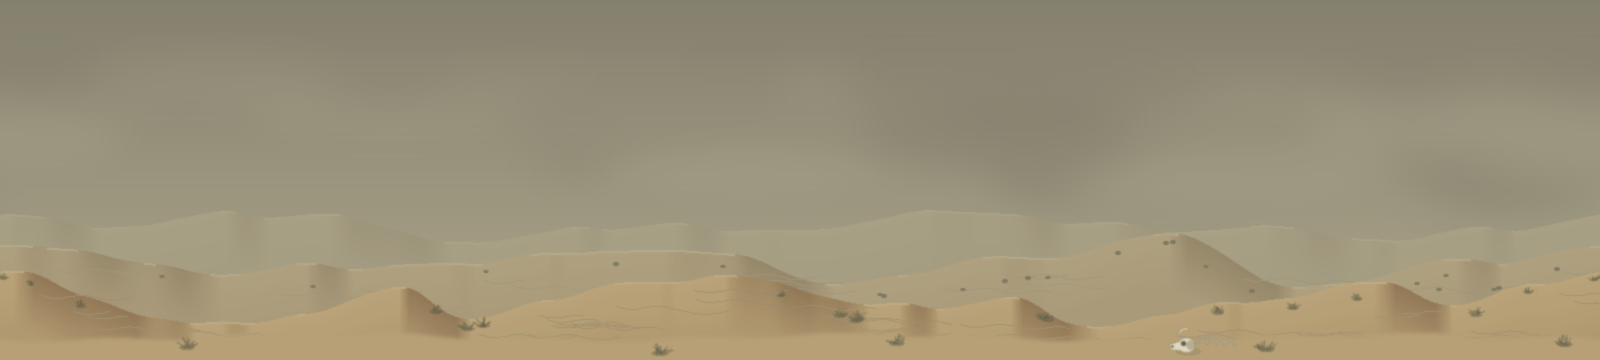
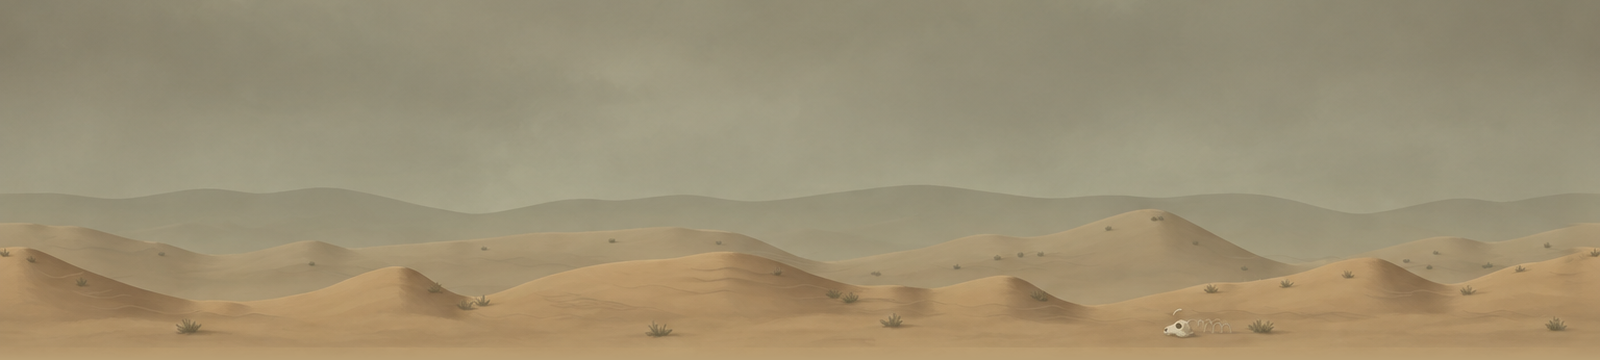
feat: ai desert

diff --git a/src/config/sceneryThemes.js b/src/config/sceneryThemes.js
@@ -26,10 +26,10 @@ export const SCENERY_THEMES = {
     tint: 0xd0d0d0, // darkens the too-light AI day art; tune here
   },
   desert: {
-    // hazy overcast dunes over a sand-drifted highway, both procedural (tools/gen-desert-assets.py)
+    // AI hazy-dune backdrop drawn from the procedural layout (tools/gen-desert-assets.py), procedural road
     road: { key: 'road-desert', file: 'assets/bg/road-desert.png' },
     scenery: { key: 'scenery-desert', file: 'assets/bg/scenery-desert.png' },
-    sky: 0x84806d,
+    sky: 0x8f8973,
     ground: 0x7d6f5d,
   },
 };

diff --git a/tests/tools/test_desert_assets.py b/tests/tools/test_desert_assets.py
@@ -103,11 +103,9 @@ class DesertSceneryTest(unittest.TestCase):
     def test_horizon_meets_road_top_row(self):
         self.assertEqual(mod.row_avg(self.img, BG_H - 1), mod.row_avg(self.road, 0))
 
-    def test_theme_hexes_match_edge_rows(self):
-        for got, want in ((mod.row_avg(self.img, 0), theme_hex('sky')),
-                          (mod.row_avg(self.road, ROAD_H - 1), theme_hex('ground'))):
-            for a, b in zip(got, want):
-                self.assertLessEqual(abs(a - b), 2)
+    def test_road_bottom_row_matches_theme_ground(self):
+        for a, b in zip(mod.row_avg(self.road, ROAD_H - 1), theme_hex('ground')):
+            self.assertLessEqual(abs(a - b), 2)
 
     def test_overcast_sky_plain_at_the_top(self):
         # clouds fade out before the top rows, so the sky fill above the strip has no seam
@@ -120,10 +118,32 @@ class DesertSceneryTest(unittest.TestCase):
         r, g, b = mod.row_avg(self.img, BG_H - 20)
         self.assertGreater(r, b + 25)
 
-    def test_shipped_files_match_generator(self):
-        for name, im in (('scenery-desert.png', self.img), ('road-desert.png', self.road)):
-            shipped = Image.open(os.path.join(mod.OUT, name)).convert('RGB')
-            self.assertEqual(shipped.tobytes(), im.tobytes(), name)
+    def test_shipped_road_matches_generator(self):
+        shipped = Image.open(os.path.join(mod.OUT, 'road-desert.png')).convert('RGB')
+        self.assertEqual(shipped.tobytes(), self.road.tobytes())
+
+
+class ShippedDesertSceneryTest(unittest.TestCase):
+    """The shipped scenery is the prepped AI image, not make_bg()'s drawing."""
+
+    @classmethod
+    def setUpClass(cls):
+        cls.img = Image.open(os.path.join(mod.OUT, 'scenery-desert.png')).convert('RGB')
+        cls.road = mod.make_road()
+
+    def test_size(self):
+        self.assertEqual(self.img.size, (W, BG_H))
+
+    def test_tiles_left_right(self):
+        self.assertLess(max(col_delta(self.img, 0, W - 1)), 12)
+
+    def test_horizon_meets_road_top_row(self):
+        for a, b in zip(mod.row_avg(self.img, BG_H - 1), mod.row_avg(self.road, 0)):
+            self.assertLessEqual(abs(a - b), 2)
+
+    def test_top_row_matches_theme_sky(self):
+        for a, b in zip(mod.row_avg(self.img, 0), theme_hex('sky')):
+            self.assertLessEqual(abs(a - b), 3)
 
 
 if __name__ == '__main__':

diff --git a/tools/gen-desert-assets.py b/tools/gen-desert-assets.py
@@ -4,7 +4,10 @@
     uv run --with pillow python tools/gen-desert-assets.py [--preview DIR]
 
 Writes public/assets/bg/road-desert.png    1600x540  tiles left<->right, not vertically
-       public/assets/bg/scenery-desert.png 1600x360  tiles left<->right, bottom = horizon
+
+The scenery drawn here is NOT shipped: it is the layout reference given to the
+AI image model, whose output (prepped) is the shipped scenery-desert.png
+(docs/image-assets.md). --preview writes it to DIR/scenery-full.png.
 
 An overcast, dusty desert: a low brown-grey dust sky of soft cloud masses,
 layers of smooth dunes fading into the haze (far grey-green, near warm sand,
@@ -13,8 +16,8 @@ sand. The road is an old sun-bleached desert highway with sand drifting over
 it and faded, half-buried dashed dividers at y = 180 / 360. Soft focus, warm
 desaturated grade, no grain.
 
-Prints the seam checks and the edge-row hexes: scenery top row -> `sky`, road
-bottom row -> `ground` in SCENERY_THEMES.desert. --preview also dumps an
+Prints the seam checks and the edge-row hexes: road bottom row -> `ground` in
+SCENERY_THEMES.desert (`sky` comes from the prep script run on the AI scenery). --preview also dumps an
 800x450 in-game mock and the swapped-halves seam checks to DIR.
 Helpers (lerp, wrap_blur, wrapped, vgradient, noise_gray) come from gen-night-assets.py.
 """
@@ -366,7 +369,6 @@ if __name__ == "__main__":
     road = make_road()
     bg = make_bg()
     road.save(os.path.join(OUT, "road-desert.png"))
-    bg.save(os.path.join(OUT, "scenery-desert.png"))
     seam_check(road, "road")
     seam_check(bg, "scenery")
     print("sky (scenery top row)", hex_of(row_avg(bg, 0)),

diff --git a/CLAUDE.md b/CLAUDE.md
@@ -33,7 +33,7 @@ Tests use `node --test` and live in `tests/`, so anything under test must stay i
 - `ObstacleSpawner` — spawns the authored waves (`new ObstacleSpawner(scene, waves = WAVES)`; `GameScene` passes `WAVES_HARD` on Hard) from `src/config/waves.js`, timed off song time (passed in from the Conductor) so obstacles arrive at the player on the beat; scroll speed is the player's actual speed, while spawn timing uses a separate `timingSpeed`. The authored waves are flattened once in the constructor into an arrival-sorted `pending` list with a spawn cursor (`next`), so the per-frame scan only covers the lookahead window. Each obstacle gets a deterministic character sprite from `src/config/obstacleSprites.js` (`spriteFor`, avoiding a same-wave repeat), rendered origin `(0,1)` so its left edge and feet line match the sprite's `hw` and shadow (`docs/image-assets.md` "Obstacle character sprites"); the collision box is narrower than the art — `hw × OBSTACLE_HITBOX_SCALE` (`gameConfig.js`), shrunk around the same centre, collision only (art, shadow and spawn timing keep the full `hw`); falls back to the old placeholder rectangle if no sprites are configured
 - `Enemy` — chases from the left; its speed ramps from `ENEMY_SPEED` to `ENEMY_CRUISE_SPEED` anchored to song time, pinning the player into a narrow speed band near max. Tracks the player's row instantly during the intro; once beat sync is on it steps onto the row only on beat crossings, so row-dodging buys up to one beat of separation. Uses the same `RunCycle` helper as `Player` for its visual, with its own `ENEMY_FRAME_COUNT`/`ENEMY_SPRITE_HH` frame set; `GameScene` calls `syncFrame()`/`pulse()` on both the player and the enemy together — each walks at its own `*_RUN_STEPS_PER_BEAT` rate off the same beat grid, and they bounce in lockstep
 - `SpinBikes` — `new SpinBikes(scene, conductor)`: a row of `BIKE_COUNT` front-facing (toward the camera, symmetric) cel-shaded riders (tapered outlined limbs with round joints, oval head with ears, tank/shorts/sneakers/hair per rider from the `BIKE_SKINS`/`BIKE_TOPS`/`BIKE_SHORTS`/`BIKE_HAIR` palettes) on dark stationary spin bikes (floor stabiliser, edge-on flywheel, post, handlebar) with an accent rim light (`BIKE_COLORS`, `BIKE_RIM_ALPHA`), drawn each frame with an invisible Phaser Graphics at `BIKE_RENDER_SCALE`× into a RenderTexture (strip of the scenery height, `STRIP_MARGIN` px past each screen edge) shown scaled back down for smooth edges (no image assets; every part is an outline underlay in `BIKE_OUTLINE_COLOR` then fills with a `shade()` shadow side, light from the upper left), at depth `BIKE_DEPTH` (−9.5, between the scenery strip and the dim overlay). `GameScene` calls `update(section, songMs, worldDx)` right after `scenery.scroll`: the row enters at the right edge on a `bikes` section's first frame (`bikeRowStartX` estimates the x for `?t=` seeks), then accumulates `worldDx × SCENERY_PARALLAX` so it drifts with the backdrop, and keeps drifting after the section ends until its right edge is off-screen left, then hides (`finished` blocks re-entry until a non-bikes frame). Pose is stateless from the beat grid (`conductor.phaseMs`): crank turns once per `BIKE_PEDAL_BEATS`, each leg a 2-bone IK (`legIK`) solved in the sagittal plane from hip to pedal and projected to the screen by `frontLeg` (y kept, knee splayed outward by `BIKE_SPLAY` × forward depth; legs half a turn apart), arms raised and waving on the beat grid (`armLean`/`armPose`): every rider in unison snaps within `BIKE_ARM_HIT_FRAC` of the wave period (1/`BIKE_WAVE_HITS_PER_BEAT` beat; 2 = every half beat) after each hit to a lean toward screen-right on even hits / screen-left on odd (both straight arms stay parallel, pointing straight up between hits, and swing together, toward the front at azimuth `BIKE_ARM_FORWARD_DEG` and projected like the legs so they foreshorten, with the fist scaled by depth via `BIKE_ARM_HAND_DEPTH_SCALE`) (`conductor.gridIndex(BIKE_WAVE_HITS_PER_BEAT)` parity), overshoots the pose by `BIKE_ARM_OVERSHOOT` and settles back over `BIKE_ARM_SETTLE_FRAC`, holds `BIKE_ARM_HOLD_FRAC` of the period, relaxes to `BIKE_ARM_RELAX` of the lean, then rests there (straight up) for the last `BIKE_ARM_REST_FRAC` of the period before the next hit; pedalling is in unison too. Mode `'grip'` instead keeps both hands on the bar ends (`gripArm`: `legIK` elbow flared outward) while shoulders sit `BIKE_GRIP_HUNCH_PX` low (rising `BIKE_SHOULDER_BOB_PX` at a full nod) and the head nods (`headNod(gripDip)`: sinks `BIKE_NOD_DROP_PX`, the hair/cap edge slides down the head so the crown shows and the eyes hide, `BIKE_NOD_*`) — fully down for `BIKE_DIP_HIT_MS` on each beat, back up by mid-beat. Ponytail/bun swing (`BIKE_HAIR_SWING_PX`) replays the nod / arm lean `BIKE_HAIR_LAG_MS` late (`laggedBeat`). Pure maths in `src/spinBikes.js`
-- `Scenery` — the road + background scenery strip, a themed pair from the `SCENERY_THEMES` table (`src/config/sceneryThemes.js`), chosen by song-time **stages** (`src/config/stages.js`: `STAGES` `{ name, startMs, theme }`, pure `stageAt(songMs)`; `suburb` → `suburbDay` → `desert` (procedural, `tools/gen-desert-assets.py`, from 53156 ms) → placeholders reusing existing themes): a theme may carry an optional `tint` (0xRRGGBB, omitted = unchanged; `suburbDay` darkens its light art) multiplied onto its strips via `setTint` and onto its sky/ground fills via `multiplyColor`, applied per layer set so it crossfades with it; `Scenery` is built with `stageAt(getStartMs())`'s theme and `GameScene` calls `scenery.setBlend(...stageBlend(songMs, STAGE_FADE_BEATS * BEAT_MS))` every frame — the pure `stageBlend` (`src/config/stages.js`) returns `{ from, to, t }`: a stage change crossfades over `STAGE_FADE_BEATS` (`gameConfig.js`, 4 beats; 0 = hard cut) starting at the stage's `startMs`, previous theme into the new one, with `t = 1` and `from === to` otherwise (the first stage never fades). `Scenery` keeps two identical layer sets (strips/fills at −10/−11 for the base showing `from`; an overlay at −9.9/−10.9 showing `to` at alpha `t`, hidden once settled so there is no double draw), only calling `setTexture`/`setFillStyle` when a set's theme changes, and `scroll()` advances both sets together; stateless from song time so `?t=` seeks just work; `BootScene` preloads every theme used in `STAGES`; stage times must sit on a real track beat, which `yarn check:beats` verifies (report only, startMs 0 exempt). Both layers are `tileSprite`s (`setTileScale(0.5, 0.5)` since the art is authored at 2× logical size) oversized in x to cover the circle the `rotate` section's zoomed-out, spinning camera sweeps, with flat-colour sky/ground rectangles filling in beyond that; `scroll(dxWorldPx)` advances the road's `tilePositionX` and the scenery's at `SCENERY_PARALLAX` (`gameConfig.js`, 0.2) of that, so the backdrop drifts slower than the road and reads as further away (0 = static). It also owns the dim-section row divider lines: dashed lane-line `tileSprite`s (one generated dash+gap texture, scrolled with the road in `scroll()`) at `rowBoundaryYs()` (`src/rowLayout.js`) drawn above the disco dim (depth −5.5) because the road art's own lane lines sit under it; `GameScene` drives them with `setRowLines(dimFade, color, shown)` so they fade with the dim, take the fixed `DISCO_ROW_LINE_COLOR` under `lights` (a pastel outside `DISCO_COLORS`, so they never blend into a beam or the beat flash; white `DIM_ROW_LINE_COLOR` otherwise) and, under `lights` only, blink with a hard cut on the beat grid (steady in other dimmed sections such as `lightsOut`, where the lights-out overlay hides them while dark) — shown for `DIM_ROW_LINE_BLINK_BEATS` beats, then hidden for the same (`conductor.gridIndex`; `DIM_ROW_LINE_*` in `gameConfig.js`)
+- `Scenery` — the road + background scenery strip, a themed pair from the `SCENERY_THEMES` table (`src/config/sceneryThemes.js`), chosen by song-time **stages** (`src/config/stages.js`: `STAGES` `{ name, startMs, theme }`, pure `stageAt(songMs)`; `suburb` → `suburbDay` → `desert` (AI backdrop over a procedural layout + road, `tools/gen-desert-assets.py`, from 53156 ms) → placeholders reusing existing themes): a theme may carry an optional `tint` (0xRRGGBB, omitted = unchanged; `suburbDay` darkens its light art) multiplied onto its strips via `setTint` and onto its sky/ground fills via `multiplyColor`, applied per layer set so it crossfades with it; `Scenery` is built with `stageAt(getStartMs())`'s theme and `GameScene` calls `scenery.setBlend(...stageBlend(songMs, STAGE_FADE_BEATS * BEAT_MS))` every frame — the pure `stageBlend` (`src/config/stages.js`) returns `{ from, to, t }`: a stage change crossfades over `STAGE_FADE_BEATS` (`gameConfig.js`, 4 beats; 0 = hard cut) starting at the stage's `startMs`, previous theme into the new one, with `t = 1` and `from === to` otherwise (the first stage never fades). `Scenery` keeps two identical layer sets (strips/fills at −10/−11 for the base showing `from`; an overlay at −9.9/−10.9 showing `to` at alpha `t`, hidden once settled so there is no double draw), only calling `setTexture`/`setFillStyle` when a set's theme changes, and `scroll()` advances both sets together; stateless from song time so `?t=` seeks just work; `BootScene` preloads every theme used in `STAGES`; stage times must sit on a real track beat, which `yarn check:beats` verifies (report only, startMs 0 exempt). Both layers are `tileSprite`s (`setTileScale(0.5, 0.5)` since the art is authored at 2× logical size) oversized in x to cover the circle the `rotate` section's zoomed-out, spinning camera sweeps, with flat-colour sky/ground rectangles filling in beyond that; `scroll(dxWorldPx)` advances the road's `tilePositionX` and the scenery's at `SCENERY_PARALLAX` (`gameConfig.js`, 0.2) of that, so the backdrop drifts slower than the road and reads as further away (0 = static). It also owns the dim-section row divider lines: dashed lane-line `tileSprite`s (one generated dash+gap texture, scrolled with the road in `scroll()`) at `rowBoundaryYs()` (`src/rowLayout.js`) drawn above the disco dim (depth −5.5) because the road art's own lane lines sit under it; `GameScene` drives them with `setRowLines(dimFade, color, shown)` so they fade with the dim, take the fixed `DISCO_ROW_LINE_COLOR` under `lights` (a pastel outside `DISCO_COLORS`, so they never blend into a beam or the beat flash; white `DIM_ROW_LINE_COLOR` otherwise) and, under `lights` only, blink with a hard cut on the beat grid (steady in other dimmed sections such as `lightsOut`, where the lights-out overlay hides them while dark) — shown for `DIM_ROW_LINE_BLINK_BEATS` beats, then hidden for the same (`conductor.gridIndex`; `DIM_ROW_LINE_*` in `gameConfig.js`)
 
 **Fake-3D depth** (`src/rowLayout.js`): shared `rowLayout(row)` → `{y, scale, depth}` — the only
 place row→y math lives; back rows render smaller (`ROW_SCALE_BACK`→`ROW_SCALE_FRONT`, per

diff --git a/docs/image-assets.md b/docs/image-assets.md
@@ -405,20 +405,27 @@ vehicles. Prepped with
 before running the AI step. Covered by `tests/tools/test_suburb_day_assets.py`
 (road, the drawing, and the shipped PNG's size, seam and edge rows).
 
-The `desert` theme (`road-desert.png` / `scenery-desert.png`, stage 3 from
-53156 ms) is fully procedural, drawn by `tools/gen-desert-assets.py`
-(`uv run --with pillow python tools/gen-desert-assets.py [--preview DIR]`),
-which writes both files. An overcast, dusty desert: a low brown-grey dust sky of
-soft cloud masses (faded out before the top rows so the `sky` fill has no
-seam), three layers of smooth skewed dunes fading into the haze (far
-grey-green, near warm sand, lee faces shaded, light from the left), sparse dry
-scrub and a bleached skull on the foreground sand. The road is an old
-sun-bleached highway with sand drifting over it, a sandy shoulder in the top
-rows (row 0 is exactly the scenery's last row) and faded dashed dividers at
-y = 180 / 360. Soft-focus, warm desaturated grade, no grain; every blurred
-layer's transparent pixels carry the layer colour so the non-premultiplied
-blur adds no dark fringe. Covered by `tests/tools/test_desert_assets.py`
-(including that the shipped PNGs equal the generator's output).
+The `desert` theme (stage 3 from 53156 ms) is made in two steps, like
+`suburbDay`. `tools/gen-desert-assets.py`
+(`uv run --with pillow python tools/gen-desert-assets.py [--preview DIR]`)
+draws the procedural road `road-desert.png` (an old sun-bleached dusty-brown
+highway with sand drifting over it, a sandy shoulder in the top rows — row 0 is
+the scenery's horizon colour 0xb89e74 — and faded dashed dividers at
+y = 180 / 360) and a **layout drawing** of the scenery (written only to
+`DIR/scenery-full.png`, never shipped): a low brown-grey dust sky, three layers
+of skewed dunes fading into the haze with shaded lee faces, sparse scrub and a
+bleached skull on the foreground sand. Every blurred layer's transparent pixels
+carry the layer colour so the non-premultiplied blur adds no dark fringe.
+The shipped `scenery-desert.png` is that drawing restyled by Codex's image
+model (`codex exec --skip-git-repo-check --sandbox workspace-write -i style1.png
+-i layout.png < prompt.txt`): style1.png was an overcast hazy desert film still
+(the person in it ignored), and the prompt asked to copy layout.png's dunes,
+scrub and skull exactly, painterly semi-realistic, straight-on with a level
+horizon, the band in the lower half of a 1536x1024 frame, moderately dark and
+dusty, no road / people / vehicles. Prepped with
+`prep-scenery-image.py scenery shot.png --offset 120 --horizon 0xb89e74`
+(it printed `sky` 0x8f8973). Covered by `tests/tools/test_desert_assets.py`
+(road, the drawing, and the shipped PNG's size, seam and edge rows).
 
 **Handling the rotate section**: the `rotate` section zooms the camera out to
 0.49 and spins it, which would otherwise reveal area outside the 800×450
